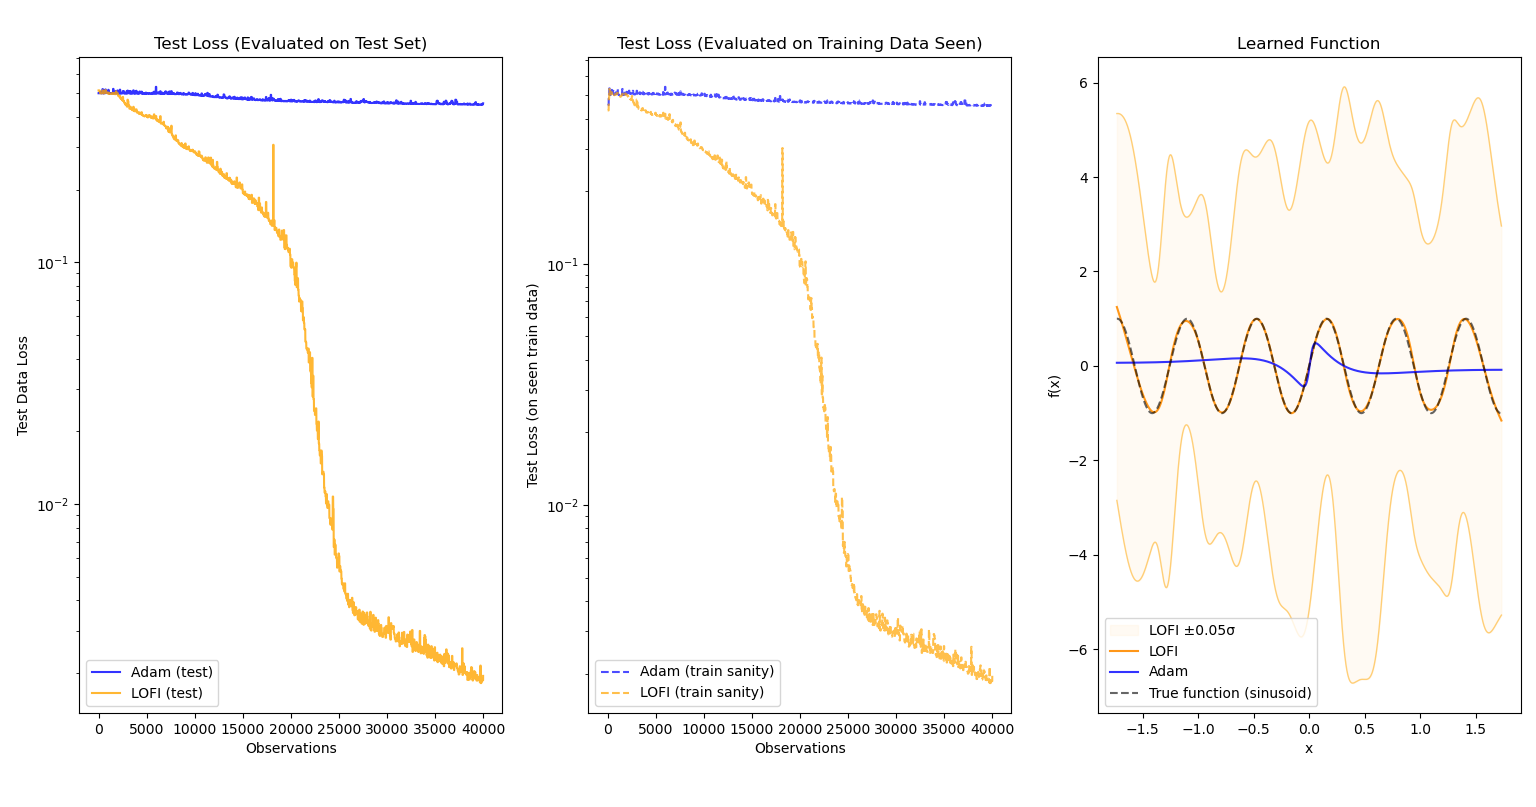
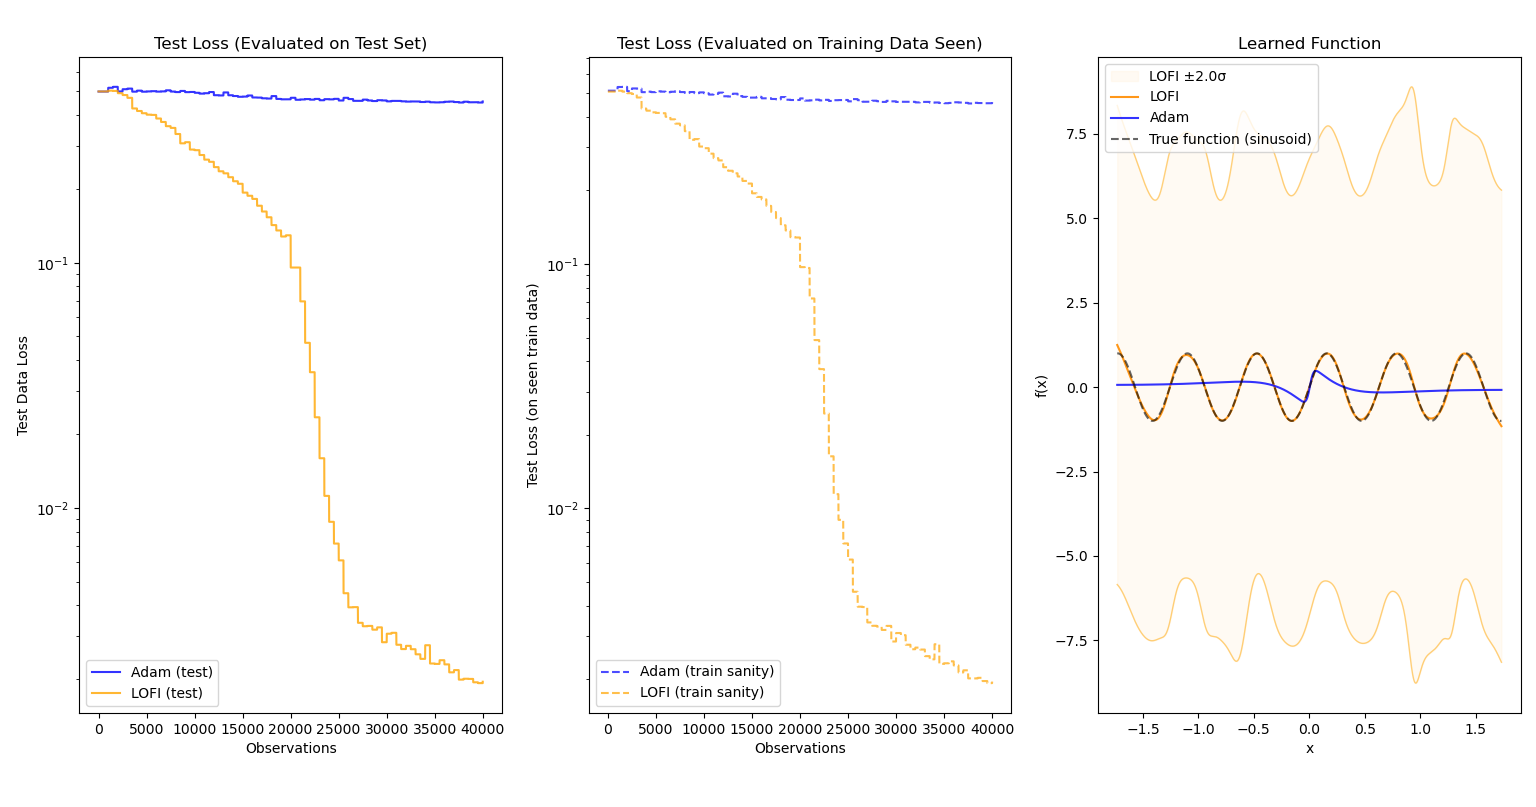
deploy: 752a79ece2823e15c72a608af81970f4148ccd98

diff --git a/blog/2025/12/16/lofi/index.html b/blog/2025/12/16/lofi/index.html
@@ -22,8 +22,8 @@
 <meta property="og:title" content="Online learning with a memory-efficient Kalman Filter" />
 <meta name="author" content="Jai Nagaraj" />
 <meta property="og:locale" content="en_US" />
-<meta name="description" content="Dec 16, 2025 | Updated Jan 3, 2026" />
-<meta property="og:description" content="Dec 16, 2025 | Updated Jan 3, 2026" />
+<meta name="description" content="Dec 16, 2025 | Updated Feb 8, 2026" />
+<meta property="og:description" content="Dec 16, 2025 | Updated Feb 8, 2026" />
 <link rel="canonical" href="https://jainagaraj.github.io/blog/2025/12/16/lofi/" />
 <meta property="og:url" content="https://jainagaraj.github.io/blog/2025/12/16/lofi/" />
 <meta property="og:site_name" content="Jai Vivek Nagaraj" />
@@ -32,7 +32,7 @@
 <meta name="twitter:card" content="summary" />
 <meta property="twitter:title" content="Online learning with a memory-efficient Kalman Filter" />
 <script type="application/ld+json">
-{"@context":"https://schema.org","@type":"BlogPosting","author":{"@type":"Person","name":"Jai Nagaraj"},"dateModified":"2025-12-16T14:00:00+00:00","datePublished":"2025-12-16T14:00:00+00:00","description":"Dec 16, 2025 | Updated Jan 3, 2026","headline":"Online learning with a memory-efficient Kalman Filter","mainEntityOfPage":{"@type":"WebPage","@id":"https://jainagaraj.github.io/blog/2025/12/16/lofi/"},"url":"https://jainagaraj.github.io/blog/2025/12/16/lofi/"}</script>
+{"@context":"https://schema.org","@type":"BlogPosting","author":{"@type":"Person","name":"Jai Nagaraj"},"dateModified":"2025-12-16T14:00:00+00:00","datePublished":"2025-12-16T14:00:00+00:00","description":"Dec 16, 2025 | Updated Feb 8, 2026","headline":"Online learning with a memory-efficient Kalman Filter","mainEntityOfPage":{"@type":"WebPage","@id":"https://jainagaraj.github.io/blog/2025/12/16/lofi/"},"url":"https://jainagaraj.github.io/blog/2025/12/16/lofi/"}</script>
 <!-- End Jekyll SEO tag -->
 
     <link rel="stylesheet" href="/assets/main.css">
@@ -104,7 +104,7 @@
   </header>
 
   <div class="post-content e-content" itemprop="articleBody">
-    <p class="post-meta-updated">Dec 16, 2025 | Updated Jan 3, 2026</p>
+    <p class="post-meta-updated">Dec 16, 2025 | Updated Feb 8, 2026</p>
 
 <h2 id="introduction-the-kalman-filter">Introduction: The Kalman Filter</h2>
 
@@ -212,12 +212,12 @@ which we already calculate in the EKF algorithm.</p>
 <p>The plots I generated above required minutes of training for the EKF over the same data as Adam, which took just a few seconds. This surely wouldn’t fly in real-time systems despite their accuracy!</p>
 
 <h3 id="using-decomposition-to-approximate-ekf">Using decomposition to approximate EKF</h3>
-<p>In 2023, <a href="https://arxiv.org/abs/2305.19535" target="_blank">this paper</a><a href="#appendix">${}^4$</a> presented a way to approximate an EKF by storing the covariance matrix in two components: a diagonal matrix and a low-rank (horizontal) matrix. Using singular value decomposition and Woodbury identities, we can still mimic the Kalman filter process of updating state distributions based on Jacobians. However, covariance updates are now much faster since the covariance information we store grows linearly with the number of parameters! We can then adjust how much covariance information we would like to capture by changing the maximum rank $L$ of the low-rank matrix.</p>
+<p>In 2023, <a href="https://arxiv.org/abs/2305.19535" target="_blank">this paper</a><a href="#appendix">${}^4$</a> presented a way to approximate an EKF by storing the <em>inverse</em> covariance matrix in two components: a diagonal matrix and a low-rank (horizontal) matrix. Using singular value decomposition and Woodbury identities, we can still mimic the Kalman filter process of updating state distributions based on Jacobians. However, covariance updates are now much faster since the covariance information we store grows linearly with the number of parameters! We can then adjust how much covariance information we would like to capture by changing the maximum rank $L$ of the low-rank matrix.</p>
 
 <p>Due to the extra complications of using covariance matrices in this format, prediction and updates are split into separate algorithms in LOFI. Moreover, while the diagonal matrix and low-rank matrices are stored independently, the update step must take care to treat them as approximating the <em>same matrix</em> when combined, thus any updates to one of the components must be reflected in the other. This is where SVD comes in during the update step. Still, if you look beyond the fancy matrix computations, many of the steps are similar to the standard EKF procedure: a priori predictions of parameters and the covariance matrix are the same (at least for the diagonal component), and the parameters are updated by using innovation and a modified Kalman gain matrix.</p>
 
 <h3 id="performance">Performance</h3>
-<p>When evaluating the tradeoffs of an optimization, it’s important that the sacrifices made for speed do not lead to an optimizer that is pointlessly more complicated than a standard optimizer (i.e. does not give much performance benefit). Fortunately, this is not the case for LOFI! The following results pit LOFI<a href="#appendix">${}^5$</a> and Adam against each other as they learn a nonlinear function online over 50,000 observations. For every 50 observations, evaluation over the test data as well as previously-seen observations is conducted and plotted.</p>
+<p>When evaluating the tradeoffs of an optimization, it’s important that the sacrifices made for speed do not lead to an optimizer that is pointlessly more complicated than a standard optimizer (i.e. does not give much performance benefit). Fortunately, this is not the case for LOFI! The following results pit LOFI<a href="#appendix">${}^5$</a> and Adam against each other as they learn a nonlinear function online over 50,000 observations. For every 500 observations, evaluation over the test data as well as previously-seen observations is conducted and plotted.</p>
 
 <p>Evaluated on $f(x)=\text{sin}(10x)$:
 <img src="/assets/images/online_sinusoid_demo.png" alt="LOFI vs. Adam for sinusoid" /></p>
@@ -236,7 +236,7 @@ which we already calculate in the EKF algorithm.</p>
 <p>We can also see the accuracy-for-speed tradeoff more clearly when pitting LOFI against EKF:
 <img src="/assets/images/online_ekf_vs_lofi_demo.png" alt="EKF vs LOFI" /></p>
 
-<p>Both optimizers were able to learn the function quite well, and surprisingly, LOFI exceeds the performance of the EKF using the same shared hyperparameters<a href="#appendix">${}^6$</a>! This is likely due to implicit regularization from the low-rank approximation, as the standard EKF is more expressive than LOFI. However, observe the uncertainty bands — while LOFI has much larger and erratic bounds, the EKF has far more certainty and its uncertainty bands match the function shape correctly. (I suspect this is due to the low-rank approximation that LOFI uses encoding less covariance information.) Yet what is not displayed is the training time: while the EKF trained for <strong>~3 minutes</strong>, LOFI took a mere <strong>18 seconds</strong> to train.</p>
+<p>Both optimizers were able to learn the function quite well, and surprisingly, LOFI exceeds the performance of the EKF using the same shared hyperparameters<a href="#appendix">${}^6$</a>! This is likely due to implicit regularization from the low-rank approximation, as the standard EKF is more expressive than LOFI. However, observe the uncertainty bands — the EKF has slightly more certainty and its uncertainty bands match the function shape more accurately. (I suspect this is due to the low-rank approximation that LOFI uses encoding less covariance information.) Yet what is not displayed is the training time: while the EKF trained for <strong>~3 minutes</strong>, LOFI took a mere <strong>18 seconds</strong> to train. Given the closeness in performance, LOFI is a remarkable optimization over the EKF.</p>
 
 <hr />
 
